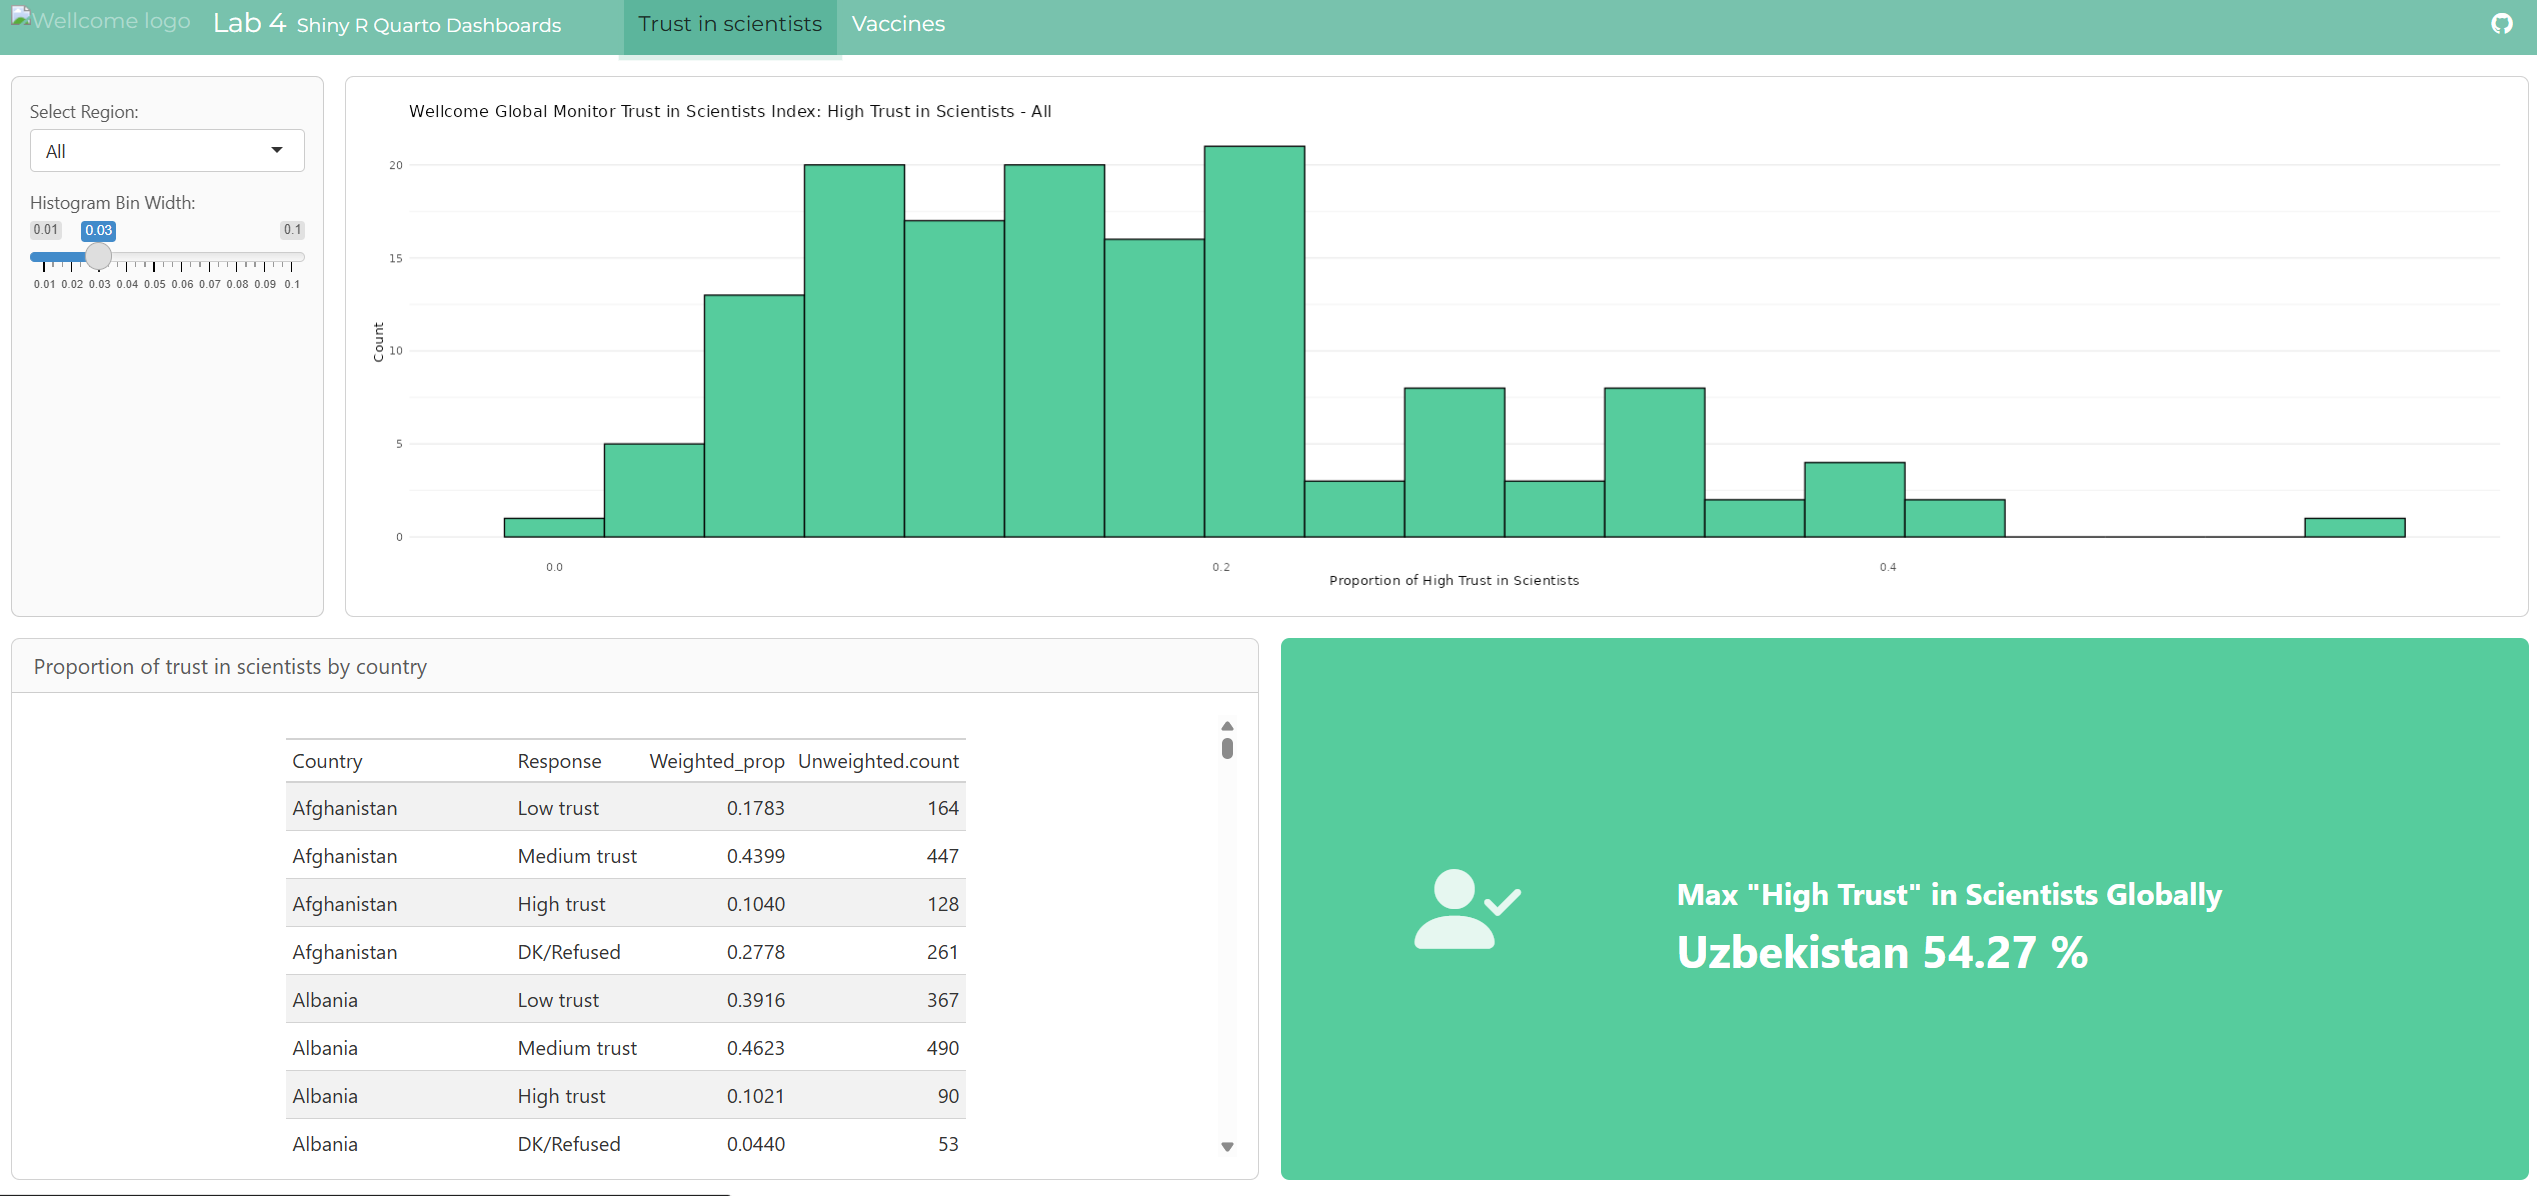
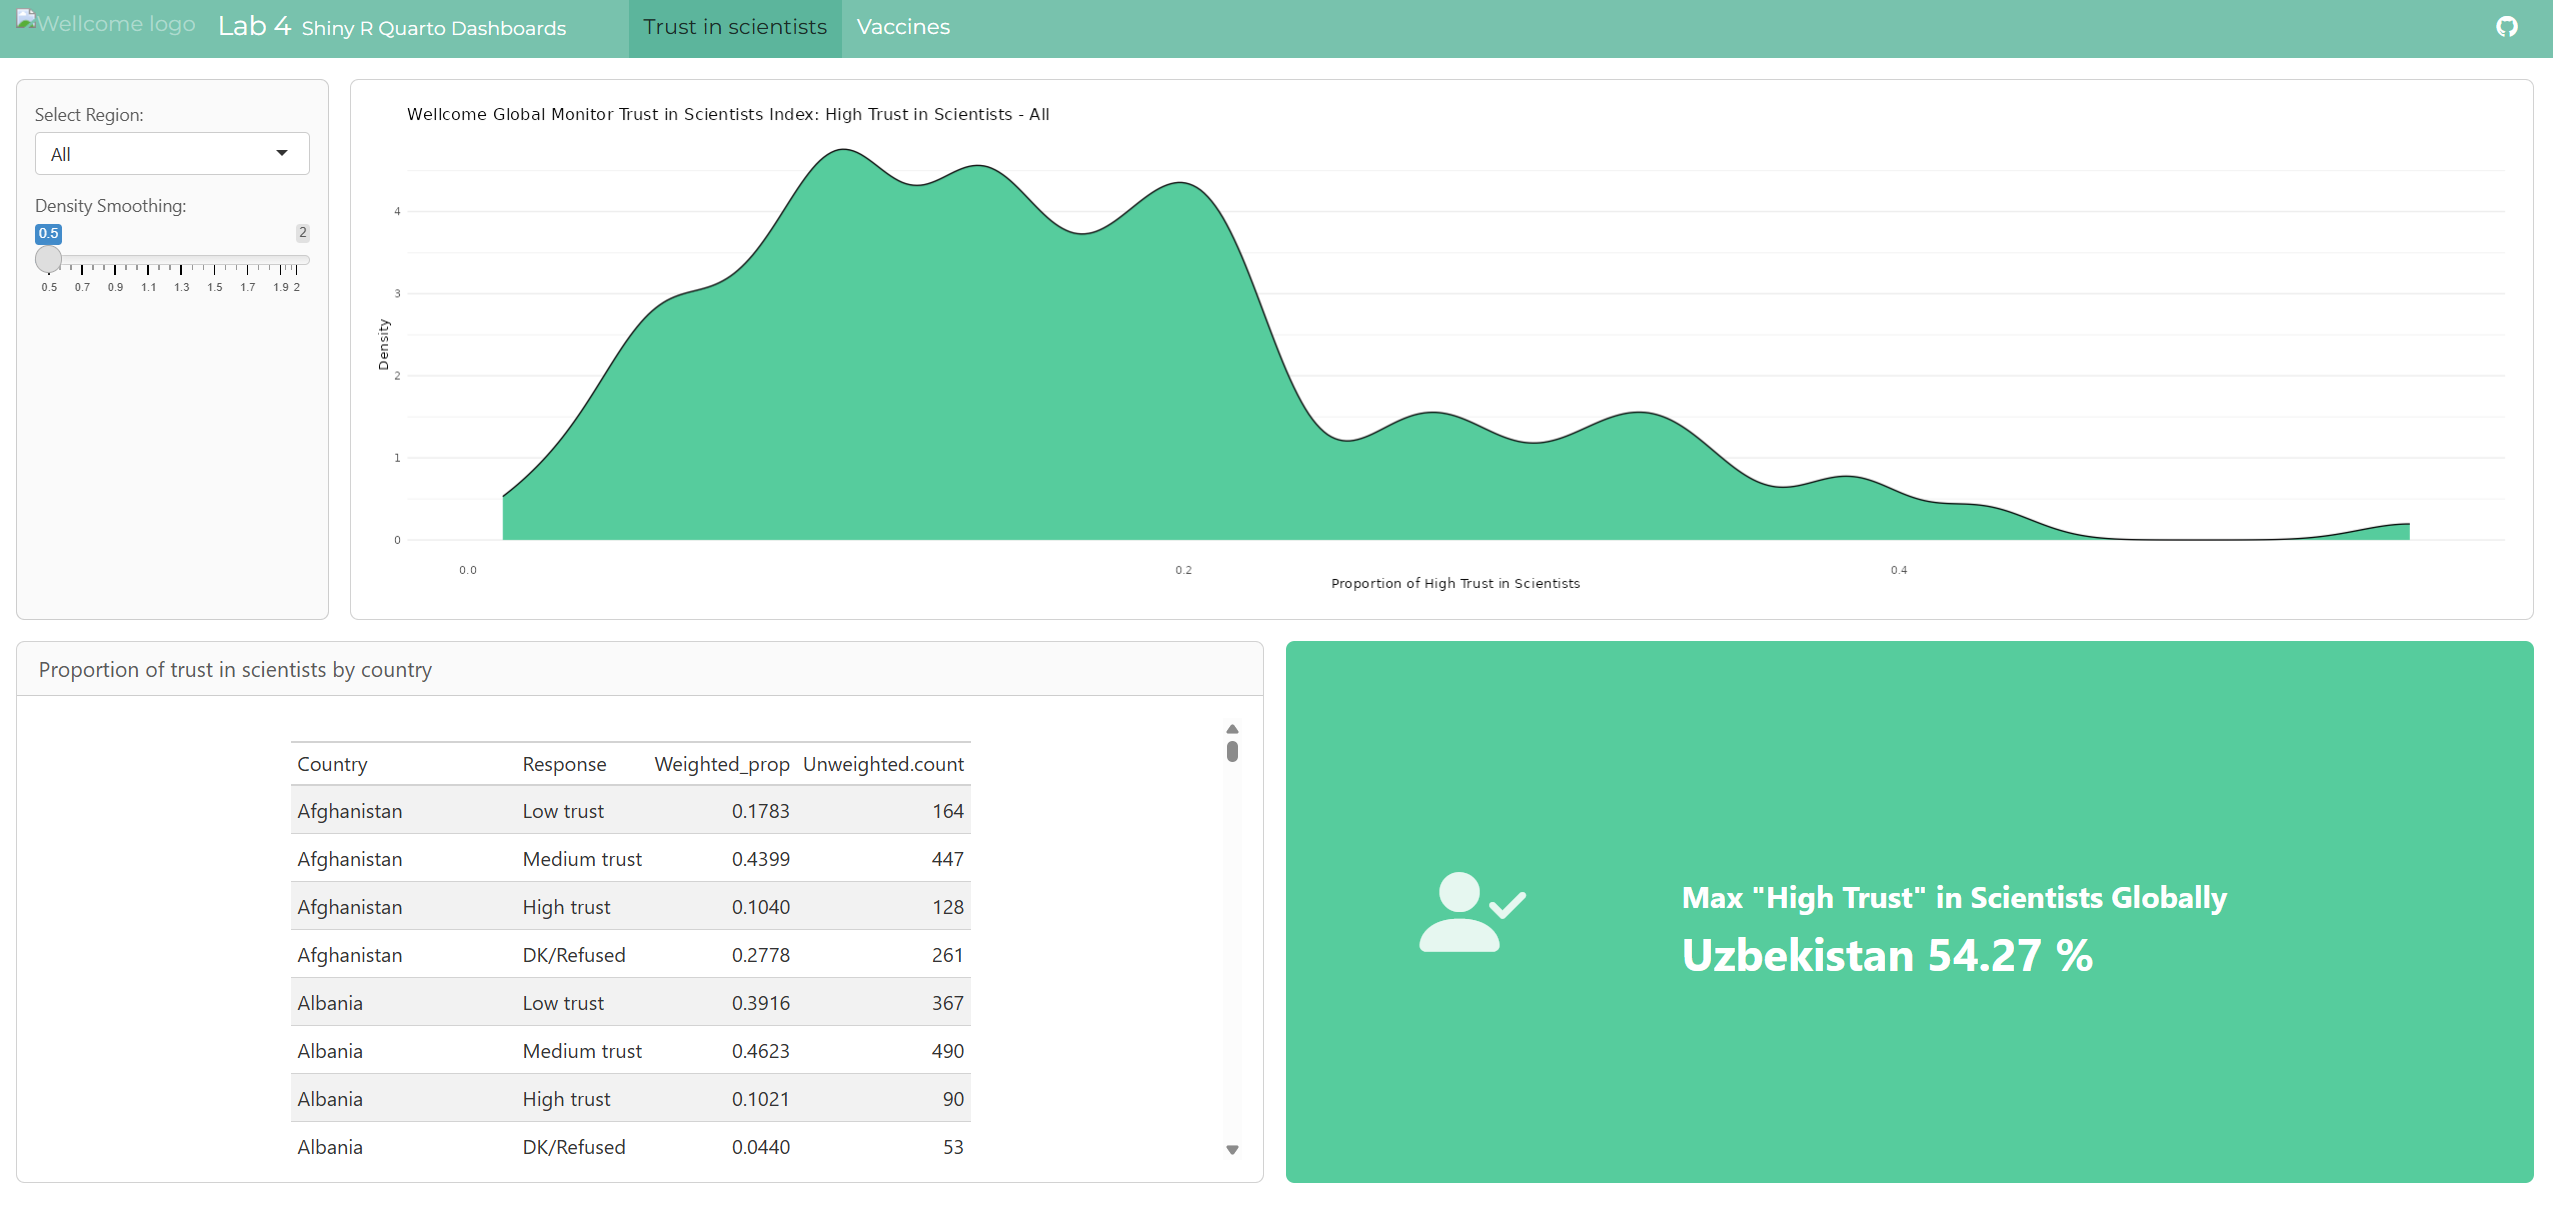
lab 4 fixed and new thumbnail

diff --git a/docs/posts.html b/docs/posts.html
@@ -335,7 +335,7 @@ May 11, 2025
 </div>
 </a>
 </div>
-<div class="g-col-1" data-index="4" data-categories="UXVhcnRvJTJDUg==" data-listing-date-sort="1746342000000" data-listing-file-modified-sort="1749438702474" data-listing-date-modified-sort="NaN" data-listing-reading-time-sort="1" data-listing-word-count-sort="8">
+<div class="g-col-1" data-index="4" data-categories="UXVhcnRvJTJDUg==" data-listing-date-sort="1746342000000" data-listing-file-modified-sort="1749441134504" data-listing-date-modified-sort="NaN" data-listing-reading-time-sort="1" data-listing-word-count-sort="8">
 <a href="./portfolio/Lab 4 Post/index.html" class="quarto-grid-link">
 <div class="quarto-grid-item card h-100 card-left">
 <p class="card-img-top">
